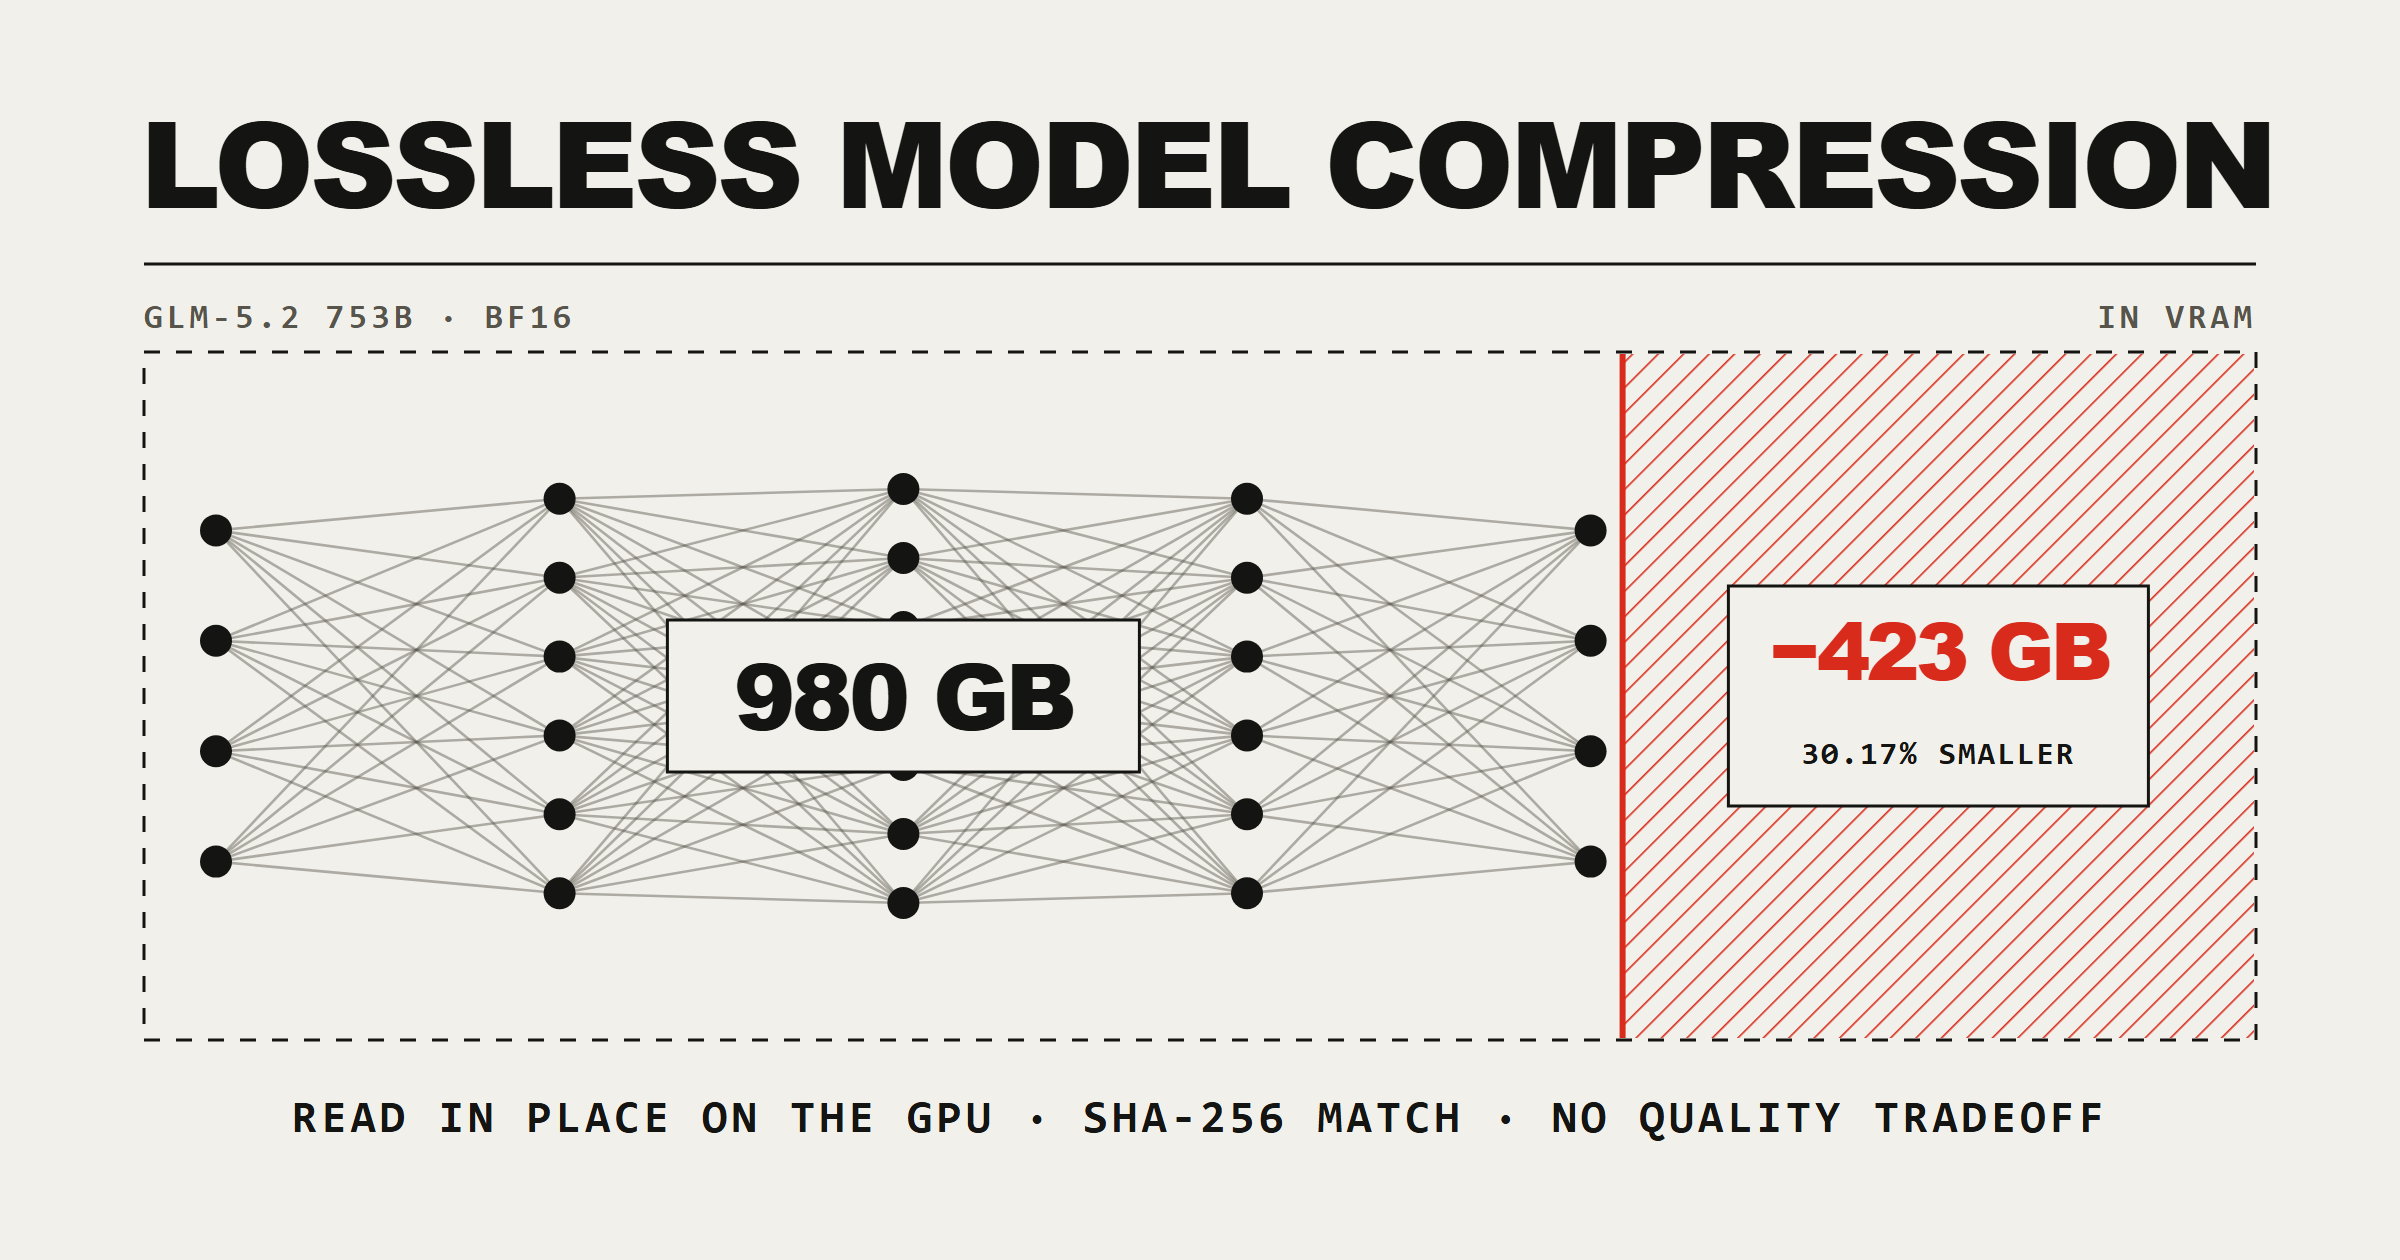
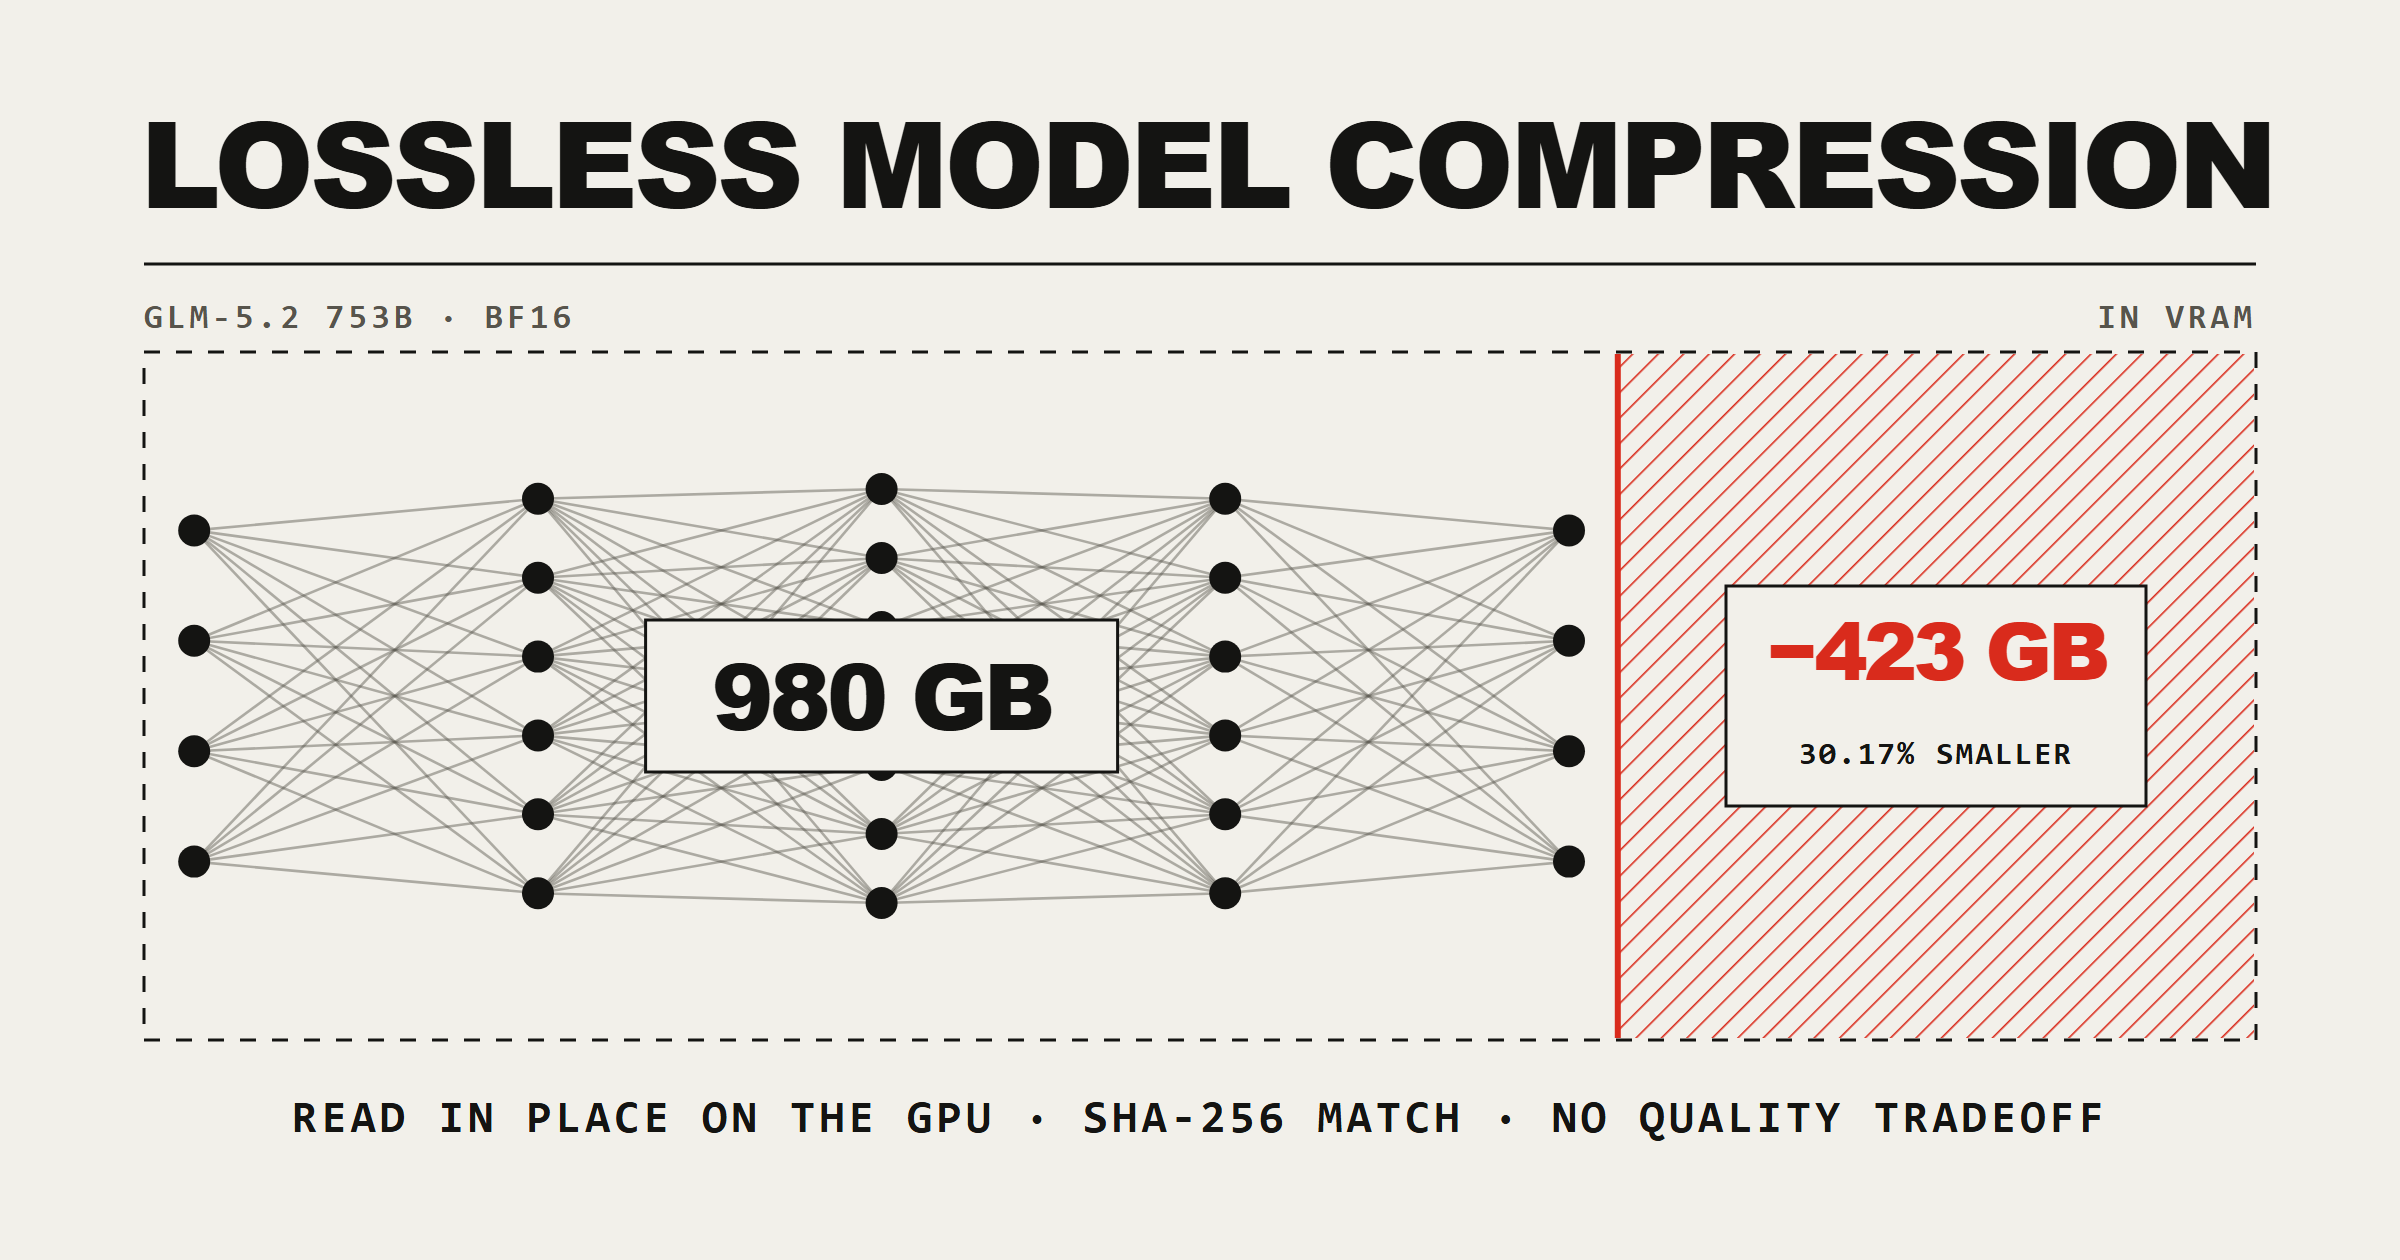
Even the net's side margins; refresh OG to match; strip dead code
Claude-Session: https://claude.ai/code/session_01KJvRnofzaPZS1SKUmvS4ga

Changed region(s): [[0.0625, 0.2786, 0.6875, 0.8048], [0.75, 0.4952, 0.9062, 0.5262], [0.75, 0.5881, 0.875, 0.619]]

diff --git a/docs/index.html b/docs/index.html
@@ -10,16 +10,16 @@
 <meta property="og:url" content="https://brianbell-x.github.io/weight-compression/" />
 <meta property="og:title" content="Lossless Model Compression Experiment" />
 <meta property="og:description" content="30% smaller so far, in storage and in VRAM. The weights reconstruct bit-for-bit, so the model computes exactly the same thing." />
-<meta property="og:image" content="https://brianbell-x.github.io/weight-compression/og-net.png?v=2" />
+<meta property="og:image" content="https://brianbell-x.github.io/weight-compression/og-net.png?v=3" />
 <meta property="og:image:width" content="2400" />
 <meta property="og:image:height" content="1260" />
 <meta property="og:image:alt" content="A neural network folded to 70% of its original footprint: GLM-5.2 753B BF16 weights at 980 GB, with the freed zone marked minus 423 GB, 30.17% smaller, never re-inflated in VRAM." />
 <meta name="twitter:card" content="summary_large_image" />
-<meta name="twitter:image" content="https://brianbell-x.github.io/weight-compression/og-net.png?v=2" />
+<meta name="twitter:image" content="https://brianbell-x.github.io/weight-compression/og-net.png?v=3" />
 <link rel="icon" href="data:,">
 <link rel="preconnect" href="https://fonts.googleapis.com">
 <link rel="preconnect" href="https://fonts.gstatic.com" crossorigin>
-<link href="https://fonts.googleapis.com/css2?family=Archivo:wght@400;500;600&family=Archivo+Black&family=JetBrains+Mono:wght@400;500;700&display=swap" rel="stylesheet">
+<link href="https://fonts.googleapis.com/css2?family=Archivo:wght@400;500&family=Archivo+Black&family=JetBrains+Mono:wght@400;500;700&display=swap" rel="stylesheet">
 <style>
   /* ============ GLOBAL — Technical Bulletin system ============ */
   :root{
@@ -33,7 +33,6 @@
     --black: "Archivo Black", "Archivo", sans-serif;
   }
   *{box-sizing:border-box}
-  html{scroll-behavior:smooth}
   body{
     margin:0;background:var(--paper);color:var(--ink);font-family:var(--sans);
     font-size:16px;line-height:1.55;-webkit-font-smoothing:antialiased;overflow-x:hidden;
@@ -46,9 +45,6 @@
   a{color:var(--ink)}
   a:focus-visible,button:focus-visible{outline:2px solid var(--red);outline-offset:2px}
   h1,h2,h3{margin:0}
-  /* one display scale for all section heads — only the h1 (and the red numeral) sit above it */
-  .plate h2{font-family:var(--black);text-transform:uppercase;letter-spacing:-.02em;
-    line-height:.92;font-size:clamp(1.9rem,4.3vw,3.05rem)}
   .wrap{max-width:1180px;margin:0 auto;padding:0 clamp(16px,4vw,48px)}
   .mono{font-family:var(--mono)}
 
@@ -62,13 +58,9 @@
   @media(max-width:720px){
     .plate{padding:20px 0 36px}
   }
-  @media(prefers-reduced-motion:reduce){
-    html{scroll-behavior:auto}
-  }
 </style>
 <style data-plate="0">
   /* ============ PLATE 0 — HERO ============ */
-  #plate-0{padding-top:36px}
 
   /* ---- headline ---- */
   #plate-0 h1{
@@ -89,7 +81,6 @@
   #plate-0 .p0-flow{display:block;width:100%;min-width:660px;height:auto}
   #plate-0 .p0-flow .ttl{font-family:var(--mono);font-weight:500;font-size:15px;letter-spacing:.12em;fill:var(--ink2)}
   #plate-0 .p0-flow .big{font-family:var(--black);letter-spacing:-.03em}
-  #plate-0 .p0-flow .mn{font-family:var(--mono);font-weight:700}
 
   /* net elements are generated by script; keep hover cheap */
   #plate-0 .p0-flow line,#plate-0 .p0-flow circle{vector-effect:non-scaling-stroke}
@@ -238,7 +229,6 @@
     line-height:1.05;font-size:clamp(1.05rem,1.9vw,1.25rem);margin-bottom:10px}
   #plate-1 .p1-cell p{margin:0;font-size:15px;line-height:1.55}
   #plate-1 .p1-cell p+p{margin-top:10px}
-  #plate-1 .p1-cell .mono{font-size:13px}
   @media(max-width:720px){
     #plate-1 .p1-grid{grid-template-columns:1fr}
     #plate-1 .p1-cell{padding:16px 16px 18px}
@@ -250,12 +240,10 @@
 <section class="plate" id="plate-0">
   <div class="wrap">
 
-    <div class="p0-top">
-      <h1>Model Weights, <br>Losslessly Compressed</h1>
-      <p class="p0-sub">Making model weights smaller without changing what they compute. Nothing rounded, nothing pruned, the same model to the last bit.</p>
-    </div>
+    <h1>Model Weights, <br>Losslessly Compressed</h1>
+    <p class="p0-sub">Making model weights smaller without changing what they compute. Nothing rounded, nothing pruned, the same model to the last bit.</p>
 
-    <div class="p0-hero" id="p0-hero">
+    <div class="p0-hero">
 
       <figure class="p0-flowfig">
         <svg class="p0-flow" id="p0-net" viewBox="0 0 740 290" role="img"
@@ -283,7 +271,7 @@
           <g id="p0-nodes" fill="#141412"></g>
 
           <!-- live size readout riding the net itself: 1,403 GB counting down to 980 GB -->
-          <g id="p0-size-g">
+          <g>
             <rect id="p0-size-bg" x="0" y="132" width="188" height="54" fill="#F2F0EA" stroke="#141412" stroke-width="1"/>
             <text id="p0-n-size" x="0" y="170" text-anchor="middle" class="big" font-size="34" fill="#141412">1,403 GB</text>
           </g>
@@ -433,10 +421,11 @@
   var pct = document.getElementById('p0-n-pct');
   var comma = function(n){ return n.toLocaleString('en-US'); };
 
-  /* e = 0 → full-width net; e = 1 → folded to S of its width */
+  /* e = 0 → full-width net; e = 1 → folded to S of its width.
+     Anchored at the box edge so the net's side margins shrink in step. */
   function render(e){
     var k = 1 - (1 - S) * e;
-    var mx = function(x){ return L + (x - L) * k; };
+    var mx = function(x){ return 8 + (x - 8) * k; };
     edges.forEach(function(ed){
       ed.el.setAttribute('x1', mx(ed.a.x)); ed.el.setAttribute('y1', ed.a.y);
       ed.el.setAttribute('x2', mx(ed.b.x)); ed.el.setAttribute('y2', ed.b.y);
@@ -446,7 +435,7 @@
       n.el.setAttribute('cx', mx(n.p.x)); n.el.setAttribute('cy', n.p.y);
       n.el.setAttribute('r', r);
     });
-    var fx = mx(R) + r + 6;                 /* front sits just past the folded net */
+    var fx = mx(731);                       /* front marks the compressed share of the box */
     front.setAttribute('x1', fx); front.setAttribute('x2', fx);
     freed.setAttribute('x', fx); freed.setAttribute('width', Math.max(0, 731 - fx));
     /* the size readout rides the center of the net as it folds */